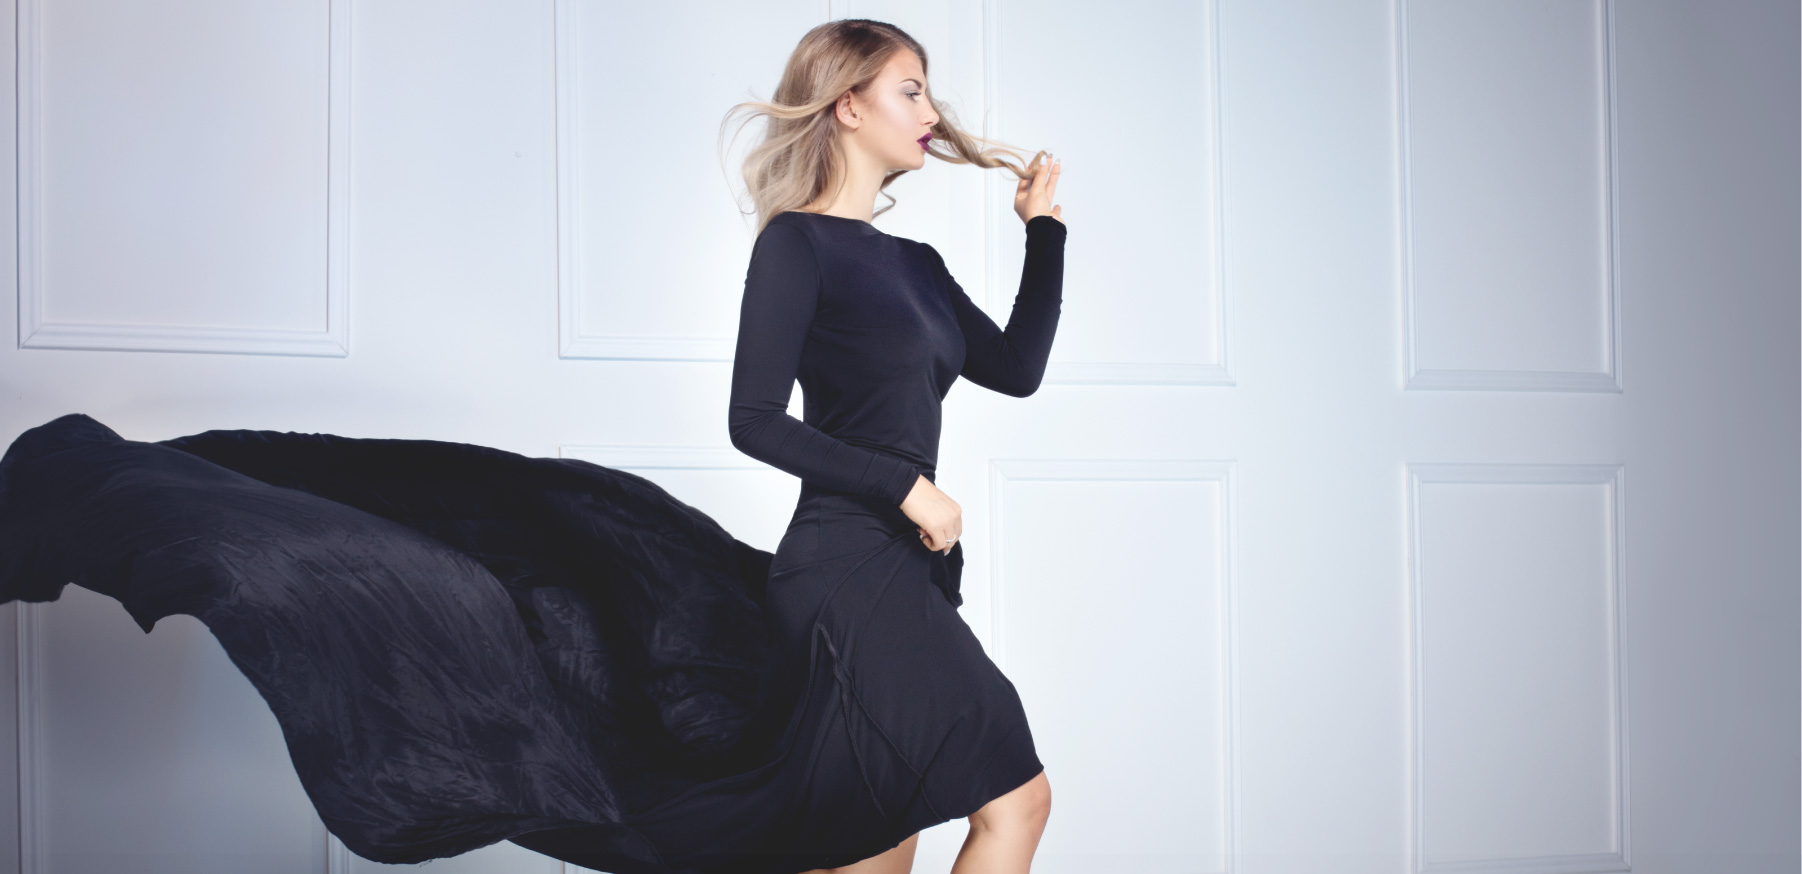
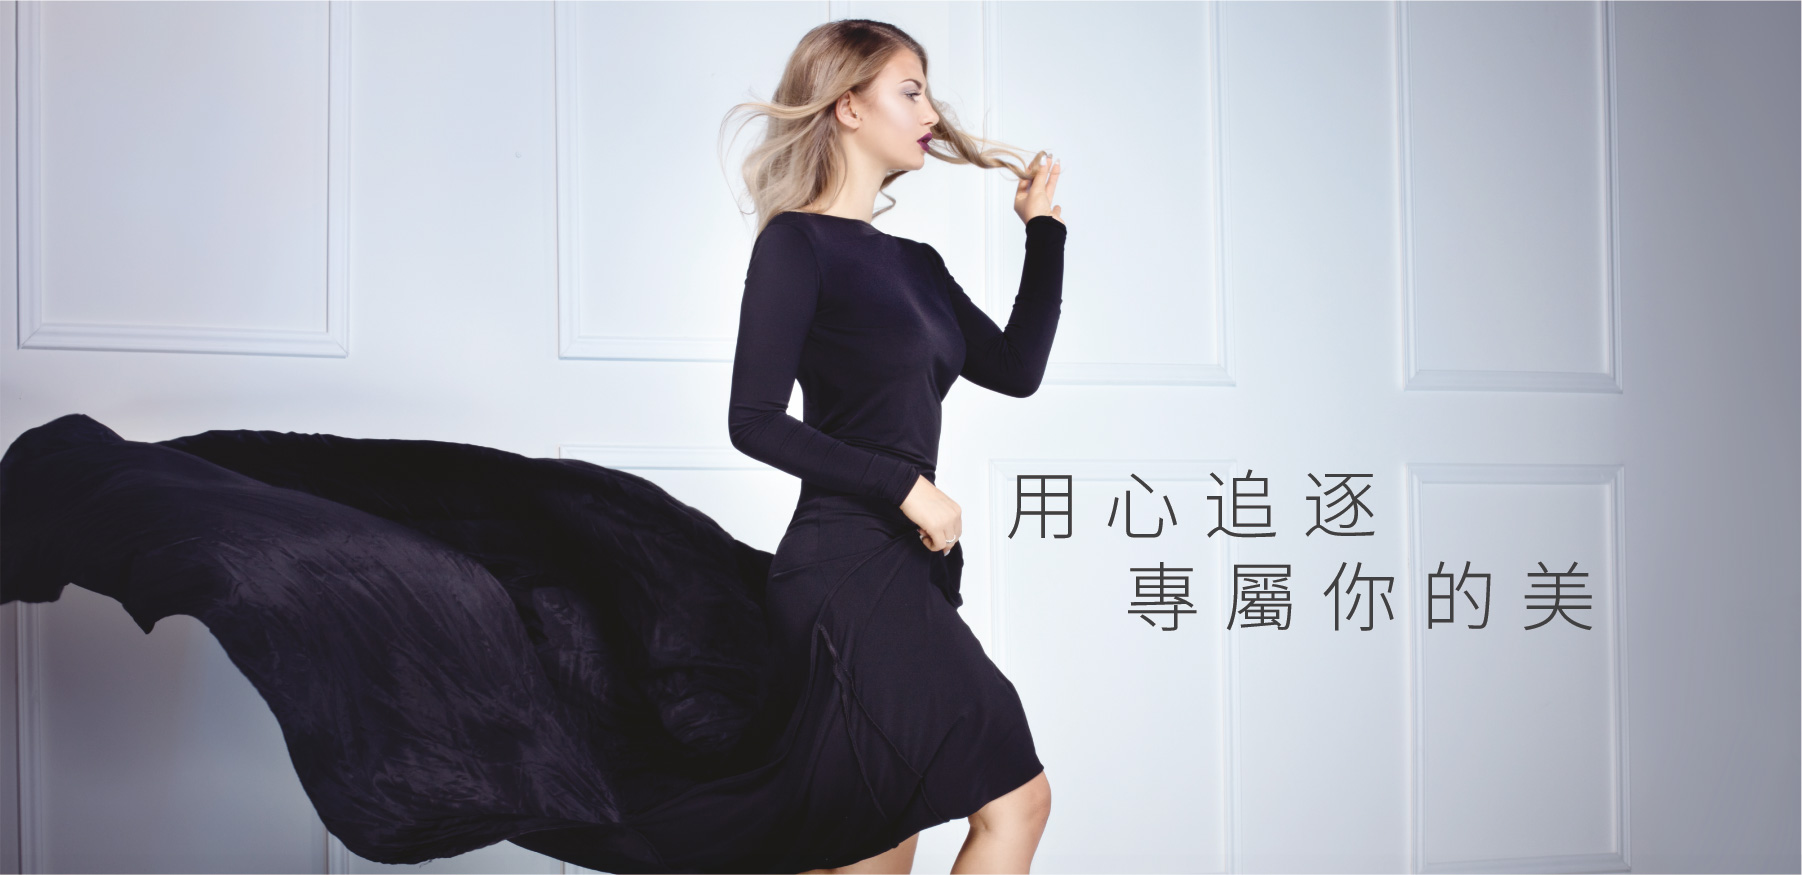
add

diff --git a/desktop/index.html b/desktop/index.html
@@ -27,7 +27,7 @@
 								<a class="tab-item">EN</a>
 							</div>
 							<div class="main-nav-wrap cf">
-								<div class="btn-menu">三</div>
+								<div class="btn-menu"></div>
 								<ul class="main-nav">
 									<li><a href="brand.html">心追品牌</a></li>
 									<li><a href="beauty.html">醫療美容</a></li>
@@ -71,15 +71,9 @@
 						<div class="img animate" data-animate="zoomIn">
 							<div class="img-wrap"><img src="images/index_b2_img.jpg" /></div>
 						</div>
-						<div class="text animate" data-animate="fadeInLeft">
-							<div class="text-inner bg-tp-1">
-								<h2>美麗給你更多自信 心追醫療美容</h2>
-								<div class="des">
-									我們匯集全亞洲最頂級的醫美專家，用匠心至誠，為求美者成就<br />
-									眾多的個性美麗定制方案，實現在國內即可享有國內外名師傾力<br />
-									服務的品質。以獨立私密的醫療環境搭配先進儀器設備、專業個<br />
-									性的美麗定制、無微不至的人文關懷為妳締造精品體驗。
-								</div>
+						<div class="text animate delay1" data-animate="fadeInLeft">
+							<div class="text-inner">
+								<div class="img-wrap"><img src="images/index_b2_text.png" /></div>
 								<ul class="tag-list">
 									<li class="animate delay1" data-animate="fadeIn"><img src="" /></li>
 									<li class="animate delay1_25" data-animate="fadeIn"><img src="" /></li>
@@ -95,16 +89,10 @@
 						<div class="img animate" data-animate="zoomIn">
 							<div class="img-wrap"><img src="images/index_b3_img.jpg" /></div>
 						</div>
-						<div class="text animate delay1" data-animate="fadeIn">
+						<div class="text animate delay1" data-animate="zoomIn">
 							<div class="text-inner bg-tp-2 text-center">
-								<h2>美麗給你更多自信 心追醫療美容</h2>
-								<div class="des">
-									我們匯集全亞洲最頂級的醫美專家，用匠心至誠，為求美者成就<br />
-									眾多的個性美麗定制方案，實現在國內即可享有國內外名師傾力<br />
-									服務的品質。以獨立私密的醫療環境搭配先進儀器設備、專業個<br />
-									性的美麗定制、無微不至的人文關懷為妳締造精品體驗。
-								</div>
-								<ul class="tag-list animate" data-animate="fadeIn">
+								<div class="img-wrap"><img src="images/index_b3_text.png" /></div>
+								<ul class="tag-list">
 									<li><img src="" /></li>
 									<li><img src="" /></li>
 								</ul>
@@ -113,13 +101,40 @@
 					</div>
 					<div class="section section-4 banner banner-c animate-banner">
 						<div class="list-view cf">
-							<div class="title animate" data-animate="zoomIn">
+							<div class="title">
 								<div class="img-wrap"><img src="images/index_b4_text.jpg" /></div>
 							</div>
 							<ul class="doctor-list" data-json="data/doctor.json"></ul>
 						</div>
 					</div>
-					<div class="section section-5 flipster">
+					<div class="section section-5 banner banner-r animate-banner">
+						<div class="img animate" data-animate="zoomIn">
+							<div class="img-wrap"><img src="images/index_b5_img.jpg" /></div>
+						</div>
+						<div class="text animate delay1" data-animate="fadeInLeft">
+							<div class="img-wrap"><img src="images/index_b5_text.png" /></div>
+						</div>
+					</div>
+					<div class="section section-6">
+						<div class="title">
+							<div class="img-wrap"><img src="images/index_b6_title.jpg" /></div>
+						</div>
+						<ul class="culm-list-3 hospital-list cf">
+							<li>
+								<div class="img-wrap"><img src="images/index_b6_node_1.jpg" /></div>
+							</li>
+							<li>
+								<div class="img-wrap"><img src="images/index_b6_node_2.jpg" /></div>
+							</li>
+							<li>
+								<div class="img-wrap"><img src="images/index_b6_node_3.jpg" /></div>
+							</li>
+						</ul>
+					</div>
+					<div class="section section-7 flipster">
+						<div class="title">
+							<div class="img-wrap"><img src="images/index_b7_title.jpg" /></div>
+						</div>
 						<ul class="flip-items">
 							<li>
 								<div class="img-wrap"><img src="pic/model.jpg" /></div>

diff --git a/desktop/css/main.css b/desktop/css/main.css
@@ -8,7 +8,7 @@
 .input-text{ box-sizing: border-box;}
 .icon,
 .btn{ display: inline-block; background-repeat: no-repeat; background-position: center center; background-size: cover;}
-.page-wrap{ font-size: 0.32rem; line-height: 150%; background-color: #f3f3f3;}
+.page-wrap{ font-size: 0.32rem; line-height: 150%;}
 .img-wrap img{ display: block; width: 100%; }
 .masker{ position: fixed; z-index: 98; height: 100%; width: 100%; background-color: rgba(0,0,0,0.75); left: 0; top: 0;}
 .popup{ display: none; position: fixed; left: 0; top: 0; width: 100%; height: 100%;}
@@ -23,7 +23,8 @@
 .swiper-pagination-bullet:before{ width: 6px; height: 6px; background-color: #6D6F70; display: block; content:''; border-radius: 100%;}
 .swiper-pagination-bullet-active{ border: 1px solid #231F20;}
 .swiper-pagination-bullet-active:before{ background-color: #231F20;}
-.animate{ visibility: hidden; }
+.animate{ display: none;}
+.animate.img{ visibility: hidden; display: block;}
 
 .confirm-btn{ padding: 0 0.3rem; margin: 0.2rem 0; box-sizing: border-box; height: 1.2rem; text-align: center;}
 .confirm-btn .btn{ line-height: 1.2rem; font-size: 0.48rem; border-radius: 0.12rem; width: 100%;}
@@ -33,11 +34,12 @@
 
 
 /*head*/
+.head{ background-color: #fff;}
 .language-tabs{ float: right; padding-right: 15px; padding: 8px 0;}
 .language-tabs .tab-item{ font-size: 12px; line-height: 120%; color: #000; border-left: 1px solid #666; float: left; padding: 0 5px;}
 .language-tabs .tab-item:first-child{ border-left: none; }
 .main-nav-wrap{ clear: right; padding: 8px 0;}
-.btn-menu{ float: right; line-height: 24px; font-size: 14px; padding: 0 5px;}
+.btn-menu{ float: right; line-height: 24px; font-size: 14px; width: 24px; height: 24px; background: url(../images/icon_menu.png) no-repeat left top; background-size: contair;}
 .main-nav{ float: right; padding-right: 15px;}
 .main-nav li{ float: left; }
 .main-nav li a{ color: #595959; float: left; line-height: 24px; font-size: 14px; padding: 0 15px; text-decoration: none;}
@@ -47,9 +49,9 @@
 .foot .copyright{ padding-top: 30px; line-height: 20px; font-size: 12px; color: #fff; }
 
 /*container*/
-.center{}
+.center{ background-color: #f3f3f3;}
 .center-inner{ }
-.center .section{ margin-bottom: 30px; }
+.center .section{ margin-bottom: 2.5%; }
 .swiper-banner{ overflow: hidden;}
 .swiper-banner .img-wrap{ width: 100%;}
 
@@ -59,12 +61,18 @@
 .banner-r .text{ left: 0; top: 0;}
 .banner-l .text{ right: 0; top: 0;}
 .banner-c .text{ left: 0; right: 0; top: 0;}
-.bg-tp-1{ background-color: rgba(255,255,255,0.5); width: 50%;}
 .list-view .doctor-list li{ float: left; width: 25%; }
 .list-view .doctor-list li .item-inner{ padding: 0 2px; }
-.banner-c .text-inner{ width: 50%; margin: 0 auto;}
+.banner-c .text-inner{ width: 100%;}
 
 .page-index .section-4 .title{ width: 48.5%; margin: 0 auto;}
+.hospital-list{ width: 60%; margin: 0 auto;}
+.culm-list-3 li{ float: left; width: 33.3333%;}
+.culm-list-3 li>div{ padding: 0 2px;}
+.page-index .section-2 .text{ width: 33.9444444444444%; left: 8.33333333333333%; top: 4.83333333333333%;}
+.page-index .section-5 .text{ width: 41.33333%; left: 10%; top: 12%;}
+.page-index .section-6 .title,
+.page-index .section-7 .title{ width: 20.66667%; margin: 0 auto 1% auto;}
 
 
 /*index*/

diff --git a/desktop/js/main.js b/desktop/js/main.js
@@ -38,7 +38,10 @@ $(function(){
 });
 function aniFunc(wrap) {
 	$(wrap).find('.animate').each(function() {
-		$(this).show().css({"visibility":"visible"}).addClass($(this).attr('data-animate') + ' animated').one('webkitAnimationEnd mozAnimationEnd MSAnimationEnd oanimationend animationend', function() {
+		if($(this).hasClass('img')){
+			$(this).css({"visibility":"visible"});
+		}
+		$(this).show().addClass($(this).attr('data-animate') + ' animated').one('webkitAnimationEnd mozAnimationEnd MSAnimationEnd oanimationend animationend', function() {
 			$(this).removeClass($(this).attr('data-animate') + ' animated animate');
 		});
 	});

diff --git a/desktop/css/common.css b/desktop/css/common.css
@@ -37,7 +37,7 @@ body{ max-width: 1920px; width: 100%; background-color: #fff;}
 @media (min-width:1400px){.container{width:1370px}}
 @media (min-width:1600px){.container{width:1570px}}
 @media (min-width:1800px){.container{width:1770px}}
-@media (min-width:1832px){.container{width:1802px}}
+@media (min-width:1830px){.container{width:1800px}}
 
 .delay0_25{
   animation-delay: 0.25s;
